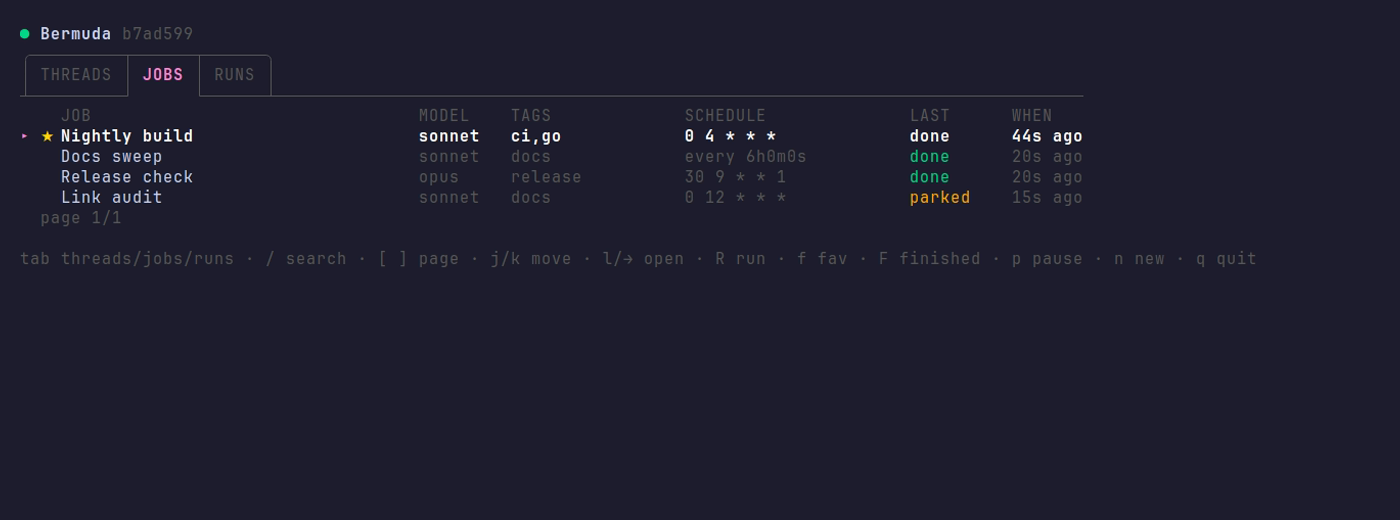
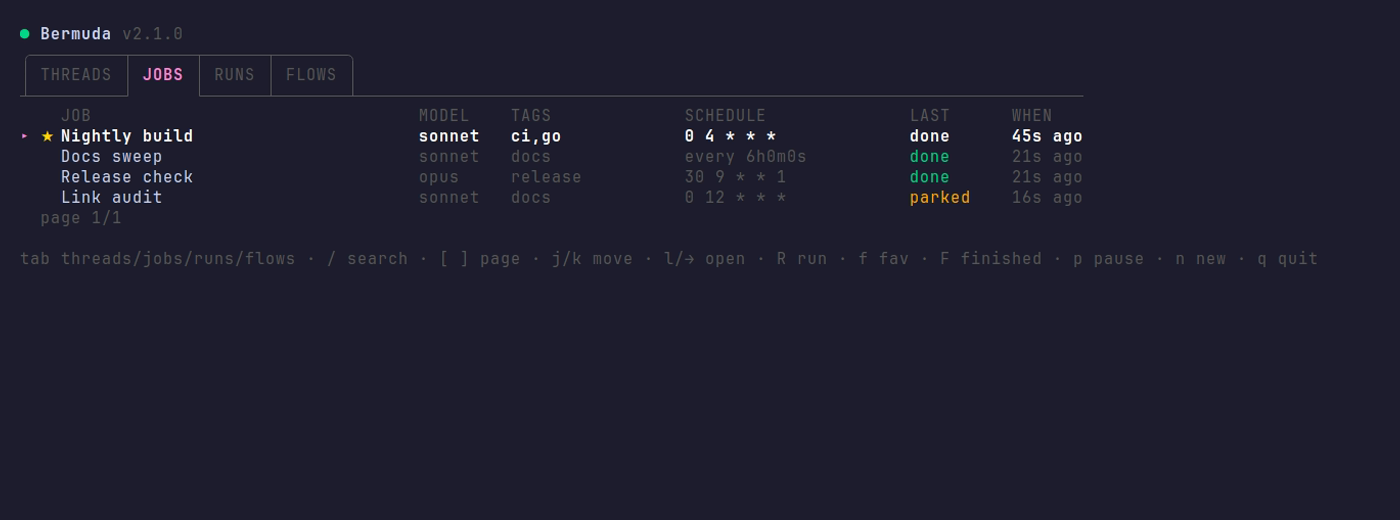
docs: regenerate the screenshots, and show the flows tab
All six stills were taken before the board had a fourth tab, so every one of
them showed a three-tab board. Regenerated in the Ubuntu container at v2.1.0,
plus a new board-flows.png with a flow's sequence open in the inspector — which
is the only place a flow's steps are visible, and the reason the tab exists.

Two fixes to the capture itself:

The tape took the flows screenshot before the terminal had caught up with the
keystroke, producing a still of the shell instead of the board. Silently: the
file was written either way, so the only symptom was a screenshot of nothing.
Same class as the dropped final screenshot.

Every demo flow was run-only and input-less, so the INPUT column rendered as a
column of dashes and the feature that makes a flow callable was invisible in the
one image meant to show it. release-check now takes the version being cut, and
triage is there to show a real chain: two agent steps on different models and a
run step to verify. It is deliberately never run — there are no API credentials
in the container, so an agent step would park.

diff --git a/README.md b/README.md
@@ -68,7 +68,15 @@ resume being cheap is what removes the pressure to wave a failed step through.
 
 What crosses between steps is a step's *published result*, never its context: the
 agent that reviews something must not inherit the assumptions of the agent that
-wrote it. Full detail in [flows](docs/flows.md).
+wrote it.
+
+The board's flows tab is the launcher — what is callable, what each takes, and
+the sequence it will run. `enter` runs one and asks for its input first; `u`
+unparks a run that stopped:
+
+![The board's flows tab, with a flow's steps in the inspector](assets/board-flows.png)
+
+Full detail in [flows](docs/flows.md).
 
 ## Why interactive agents
 
